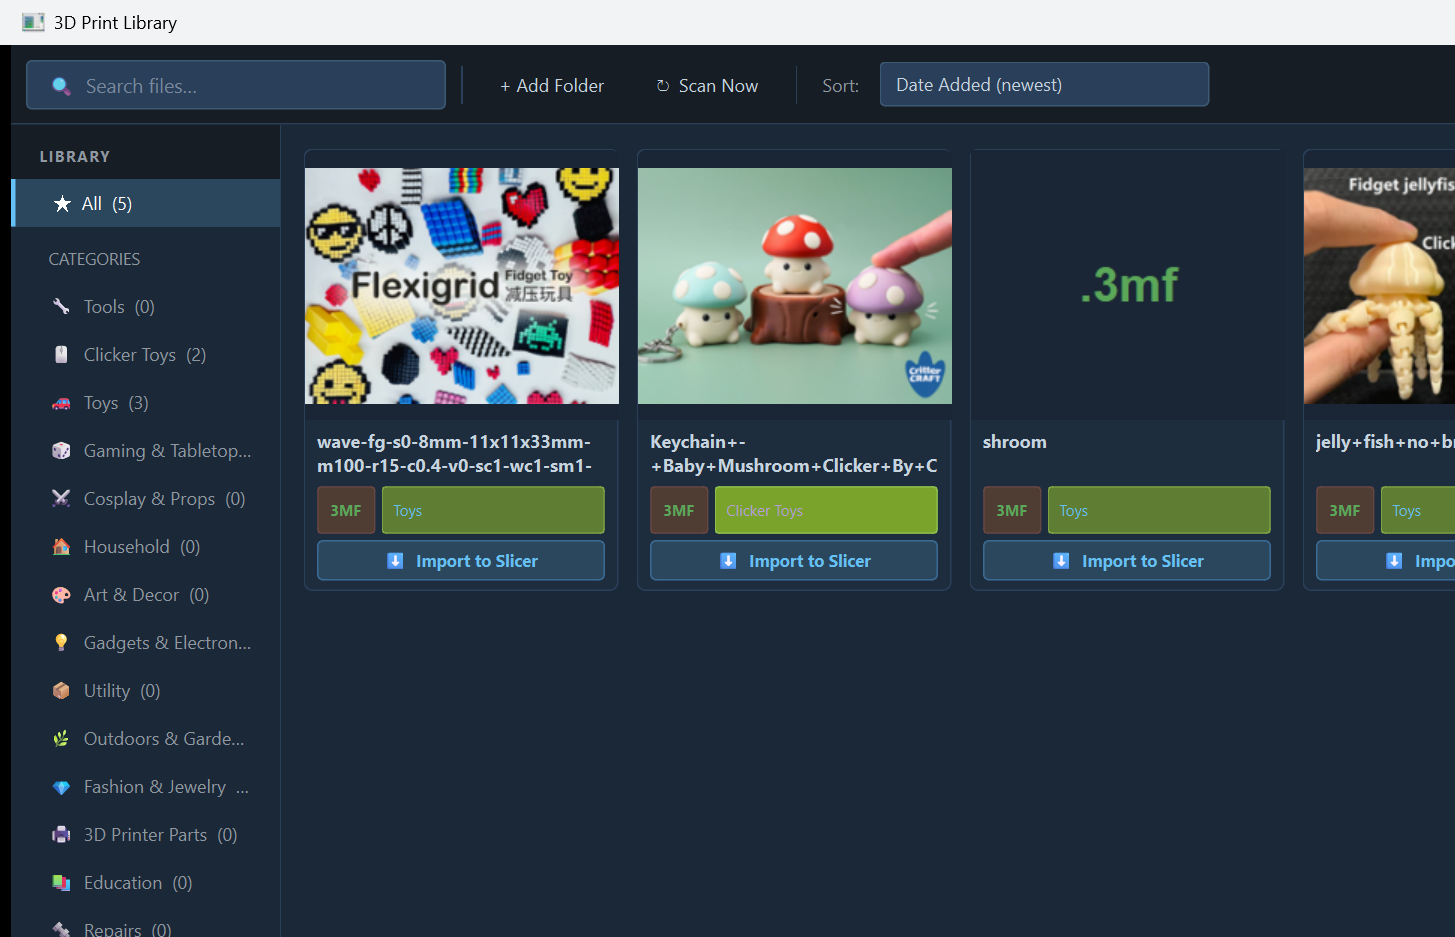
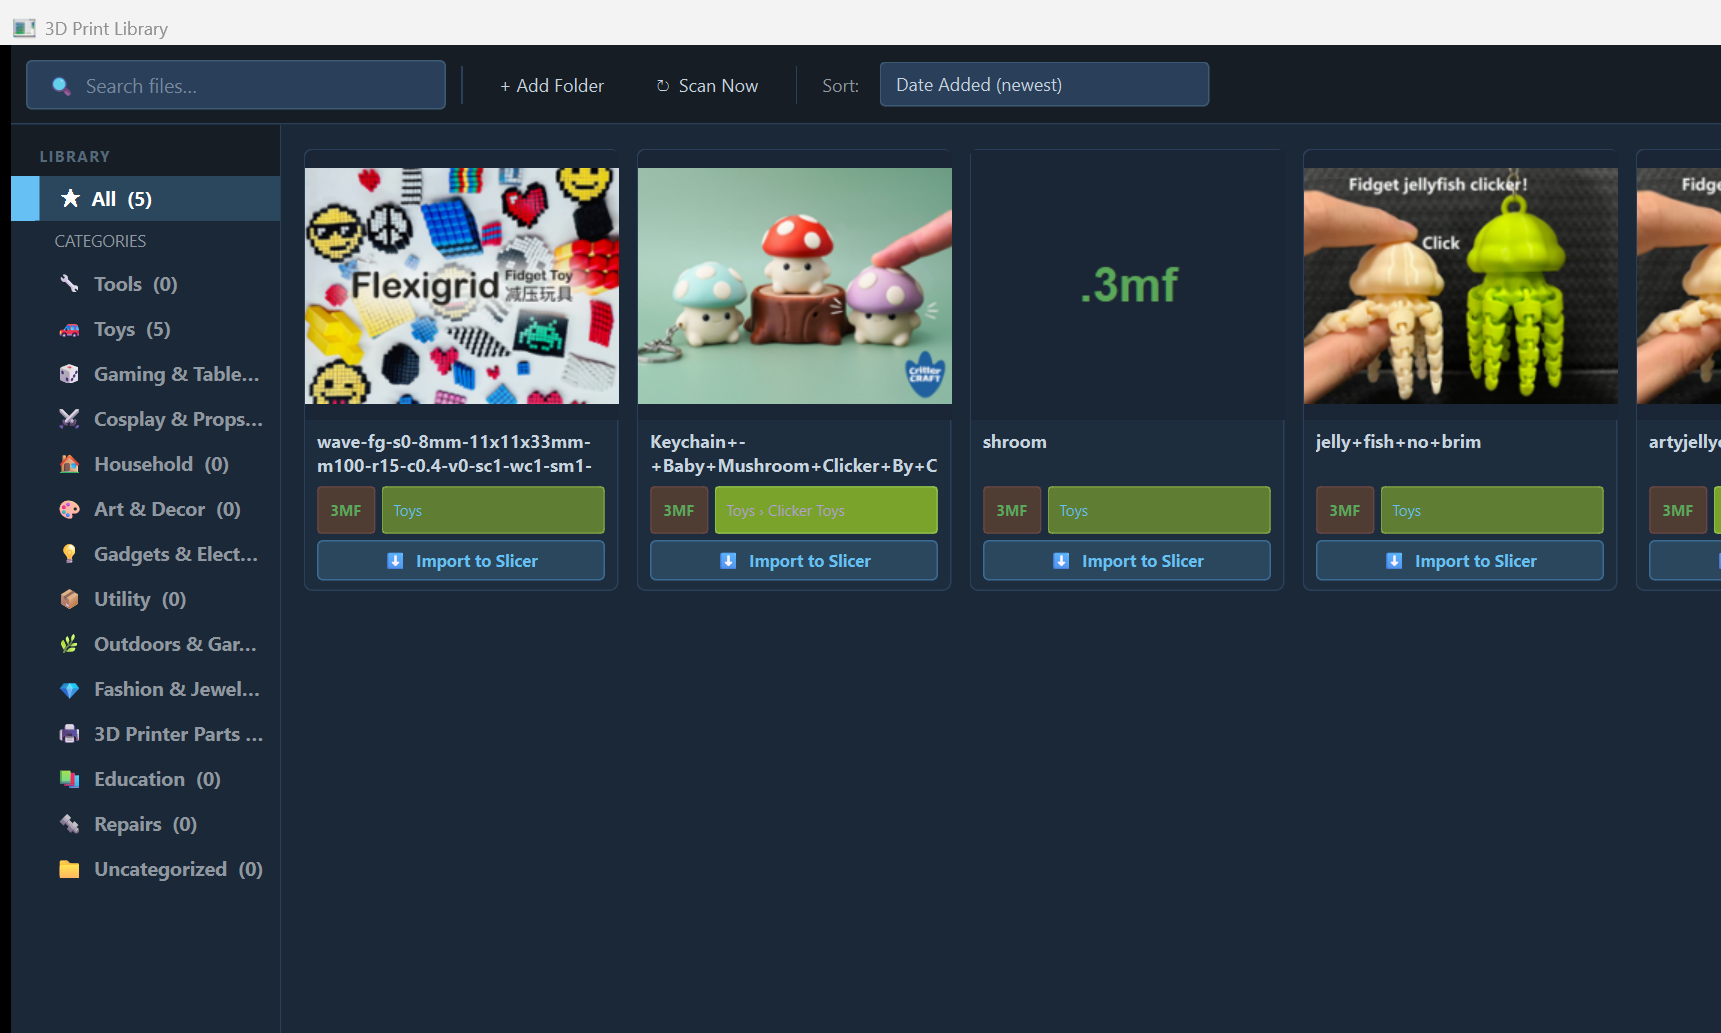
Update screenshot and README for sub-category release
- New screenshot showing hierarchical tree sidebar with parent/sub-category
  layout, updated file cards with 'Category › Sub' badges
- README updated: sub-category table, customization guide, revised
  category list with all 34 built-in sub-categories documented

diff --git a/README.md b/README.md
@@ -1,6 +1,6 @@
 # 3D Print Library
 
-A Steam-style desktop library for managing your local 3D print files — `.3mf`, `.stl`, `.obj`, `.step`, `.gcode` and more. Browse your collection with thumbnail previews, filter by category, and send files directly to your slicer.
+A Steam-style desktop library for managing your local 3D print files — `.3mf`, `.stl`, `.obj`, `.step`, `.gcode` and more. Browse your collection with thumbnail previews, filter by category and sub-category, and send files directly to your slicer.
 
 ![3D Print Library screenshot](docs/screenshot.png)
 
@@ -9,13 +9,15 @@ A Steam-style desktop library for managing your local 3D print files — `.3mf`,
 ## Features
 
 - **Auto-scan folders** — point the app at any folder (or multiple folders) and it finds all your 3D print files recursively
-- **Smart auto-categorization** — files are categorized automatically from filename keywords into 15 categories
+- **Smart auto-categorization** — files are categorized automatically from filename keywords into 14 parent categories with 34 built-in sub-categories
+- **Hierarchical sidebar** — collapsible tree with parent → sub-category drill-down and live file counts
 - **Thumbnail previews** — extracts built-in thumbnails from `.3mf` files; searches online (DuckDuckGo) for STL previews; falls back to a live 3D matplotlib render
 - **Smart 3MF import** — sends `.3mf` files to your slicer with printer/filament settings stripped, so your slicer setup is never overridden — but all painted colors, multi-material assignments, and modifier meshes are fully preserved
 - **Auto-detect slicers** — finds your installed slicers via Windows Registry, Program Files, AppData, and drive roots — no manual .exe hunting
 - **13 slicers supported** — OrcaSlicer, Bambu Studio, PrusaSlicer, UltiMaker Cura, Snapmaker Luban, Creality Print, Chitubox, Lychee Slicer, FlashPrint, Anycubic Photon Workshop, ideaMaker, Simplify3D, SuperSlicer
+- **Customizable categories** — add, rename, delete, and style (icon + color) any category or sub-category from Settings
 - **Right-click context menu** — rename, change category, edit notes, refresh thumbnail, open file location, remove from library
-- **Search & filter** — live search bar + category sidebar filters
+- **Search & filter** — live search bar + category/sub-category sidebar filters
 - **SQLite library database** — stored in `~/.3dprintlibrary/`, nothing is moved or modified on disk
 
 ---
@@ -62,16 +64,16 @@ On first launch you will be prompted to add a folder. The app will also automati
 
 1. Click **+ Add Folder** in the toolbar (or go to **⚙ Settings → Folders**)
 2. Select the folder where your `.stl` / `.3mf` files live — subfolders are scanned automatically
-3. Click **↻ Scan** — the library fills with cards
+3. Click **↻ Scan Now** — the library fills with cards
 
 ### Browsing
 
 | Action | How |
 |---|---|
-| Filter by category | Click a category in the left sidebar |
+| Filter by parent category | Click a category in the left sidebar |
+| Filter by sub-category | Expand a parent and click a child row |
 | Search | Type in the search bar — filters live as you type |
 | Sort | Use the **Sort** dropdown in the toolbar |
-| View file details | Hover a card to see the full path in the tooltip |
 
 ### Opening files in your slicer
 
@@ -90,7 +92,7 @@ To load a `.3mf` as a full project (including its embedded settings), right-clic
 |---|---|
 | ⬇ Import to Slicer / ▶ Open in Slicer | Send to slicer (submenu if multiple slicers) |
 | 📂 Open as Project | 3MF only — load with all embedded settings |
-| 🏷 Change Category | Override the auto-detected category |
+| 🏷 Change Category | Two-level picker — choose parent and optional sub-category |
 | ✏ Rename | Set a display name (original filename unchanged) |
 | 📝 Edit Notes | Add personal notes to this file |
 | 🔄 Refresh Thumbnail | Delete cached thumbnail and regenerate |
@@ -99,27 +101,40 @@ To load a `.3mf` as a full project (including its embedded settings), right-clic
 
 ---
 
-## Categories
+## Categories & Sub-Categories
 
-Files are auto-categorized on scan. You can override any file's category via right-click → **Change Category**.
+Files are auto-categorized on scan using keyword matching — parent category first, then sub-category within that parent. You can override any file's category via right-click → **Change Category**.
 
-| Category | Typical contents |
+| Parent Category | Built-in Sub-Categories |
 |---|---|
-| 🔧 Tools | Wrenches, jigs, clamps, calipers |
-| 🖱 Clicker Toys | Fidgets, spinners, pop-its, sensory toys |
-| 🚗 Toys | Cars, figures, play sets, pinwheels |
-| 🎲 Gaming & Tabletop | D&D minis, terrain, dice towers, board game inserts |
-| ⚔ Cosplay & Props | Armor, masks, weapons, movie/TV replicas |
-| 🏠 Household | Kitchen, bathroom, garage organizers |
-| 🎨 Art & Decor | Sculptures, wall art, vases, lithophanes |
-| 💡 Gadgets & Electronics | Phone stands, Pi cases, cable management |
-| 📦 Utility | Generic holders, mounts, brackets, storage |
-| 🌿 Outdoors & Garden | Planters, bird feeders, bike parts |
-| 💎 Fashion & Jewelry | Rings, earrings, bracelets, belt buckles |
-| 🖨 3D Printer Parts | Printer upgrades, mods, replacement parts |
-| 📚 Education | Science models, anatomy, geography |
-| 🔩 Repairs | Replacement parts, spare hardware |
-| 📁 Uncategorized | Anything that didn't match a keyword |
+| 🔧 **Tools** | Hand Tools · Workshop & Jigs · Measuring |
+| 🚗 **Toys** | Clicker Toys · Flexi & Articulated · Action Figures · Vehicles · Puzzles · Animals & Creatures |
+| 🎲 **Gaming & Tabletop** | Miniatures · Terrain & Scenery · Dice & Accessories · Board Game Inserts |
+| ⚔ **Cosplay & Props** | Weapons & Props · Armor & Wearables · Movie & TV |
+| 🏠 **Household** | Kitchen · Bathroom · Storage & Org · Garage & Workshop |
+| 🎨 **Art & Decor** | Sculptures & Busts · Wall Art · Vases & Planters |
+| 💡 **Gadgets & Electronics** | Phone & Tablet · PC & Peripherals · Arduino & Pi · Audio |
+| 🖨 **3D Printer Parts** | Bambu / Orca · Prusa · Creality / Ender · Voron · General Upgrades |
+| 📦 **Utility** | *(no sub-categories — add your own!)* |
+| 🌿 **Outdoors & Garden** | *(no sub-categories)* |
+| 💎 **Fashion & Jewelry** | *(no sub-categories)* |
+| 📚 **Education** | *(no sub-categories)* |
+| 🔩 **Repairs** | *(no sub-categories)* |
+| 📁 **Uncategorized** | *(catch-all)* |
+
+---
+
+## Customizing Categories
+
+Open **⚙ Settings → 🏷 Categories** to manage the full hierarchy.
+
+| Button | What it does |
+|---|---|
+| **+ Add Category** | Create a new top-level category |
+| **+ Add Sub-Category** | Add a child under the currently selected parent |
+| **✏ Rename** | Rename any category or sub-category — all files update automatically |
+| **🎨 Style** | Change the emoji icon and pick a custom color |
+| **🗑 Delete** | Delete custom categories (built-ins are protected). Files move up to the parent or Uncategorized. |
 
 ---
 
@@ -128,21 +143,22 @@ Files are auto-categorized on scan. You can override any file's category via rig
 Open **⚙ Settings** from the toolbar.
 
 ### Folders tab
-Add or remove the watch folders that the library scans. Click **+ Add Folder** to browse to a directory. Hit **↻ Scan** in the toolbar to re-scan after adding folders.
+Add or remove the watch folders that the library scans. Hit **↻ Scan Now** in the toolbar to re-scan after adding folders.
 
 ### Slicers tab
-- **🔍 Auto-Detect Slicers** — searches the Windows Registry, Program Files, AppData, and drive roots for any of the 13 supported slicers
+- **🔍 Auto-Detect Slicers** — searches the Windows Registry, Program Files, AppData, and drive roots for any of the 13 supported slicers. Runs automatically on first launch.
 - **+ Add Manually** — browse to any `.exe` if your slicer wasn't auto-detected
 - **✕ Remove Selected** — remove a slicer from the list
 
-Auto-detect runs automatically the first time you open this tab if no slicers are configured.
+### Categories tab
+Full hierarchy editor — see [Customizing Categories](#customizing-categories) above.
 
 ### Thumbnails tab
 | Option | Default | Notes |
 |---|---|---|
 | Internet image search | ✅ On | DuckDuckGo — no API key needed |
 | 3D render fallback | ✅ On | Uses matplotlib; disable if your PC is slow |
-| Clear thumbnail cache | — | Deletes all cached PNGs and regenerates on next scan |
+| Clear thumbnail cache | — | Deletes all cached PNGs; regenerated on next scan |
 
 ---
 
@@ -152,14 +168,14 @@ Standard behavior when you pass a `.3mf` to a slicer on the command line is to o
 
 3D Print Library solves this by creating a temporary stripped copy of the `.3mf` before sending it to your slicer:
 
-**Stripped (printer/filament/process profiles):**
+**Stripped** (printer/filament/process profiles):
 - `Metadata/project_settings.config`
 - `Metadata/filament_settings_*.config`
 - `Metadata/machine_settings_*.config`
 - `Metadata/process_settings_*.config`
 - Compiled G-code
 
-**Kept (all model data):**
+**Kept** (all model data):
 - `3D/3dmodel.model` — geometry **and** all `paint_color` triangle attributes (brush-painted color sections)
 - `Metadata/model_settings.config` — per-object extruder slot assignments
 - Plate layout and thumbnails